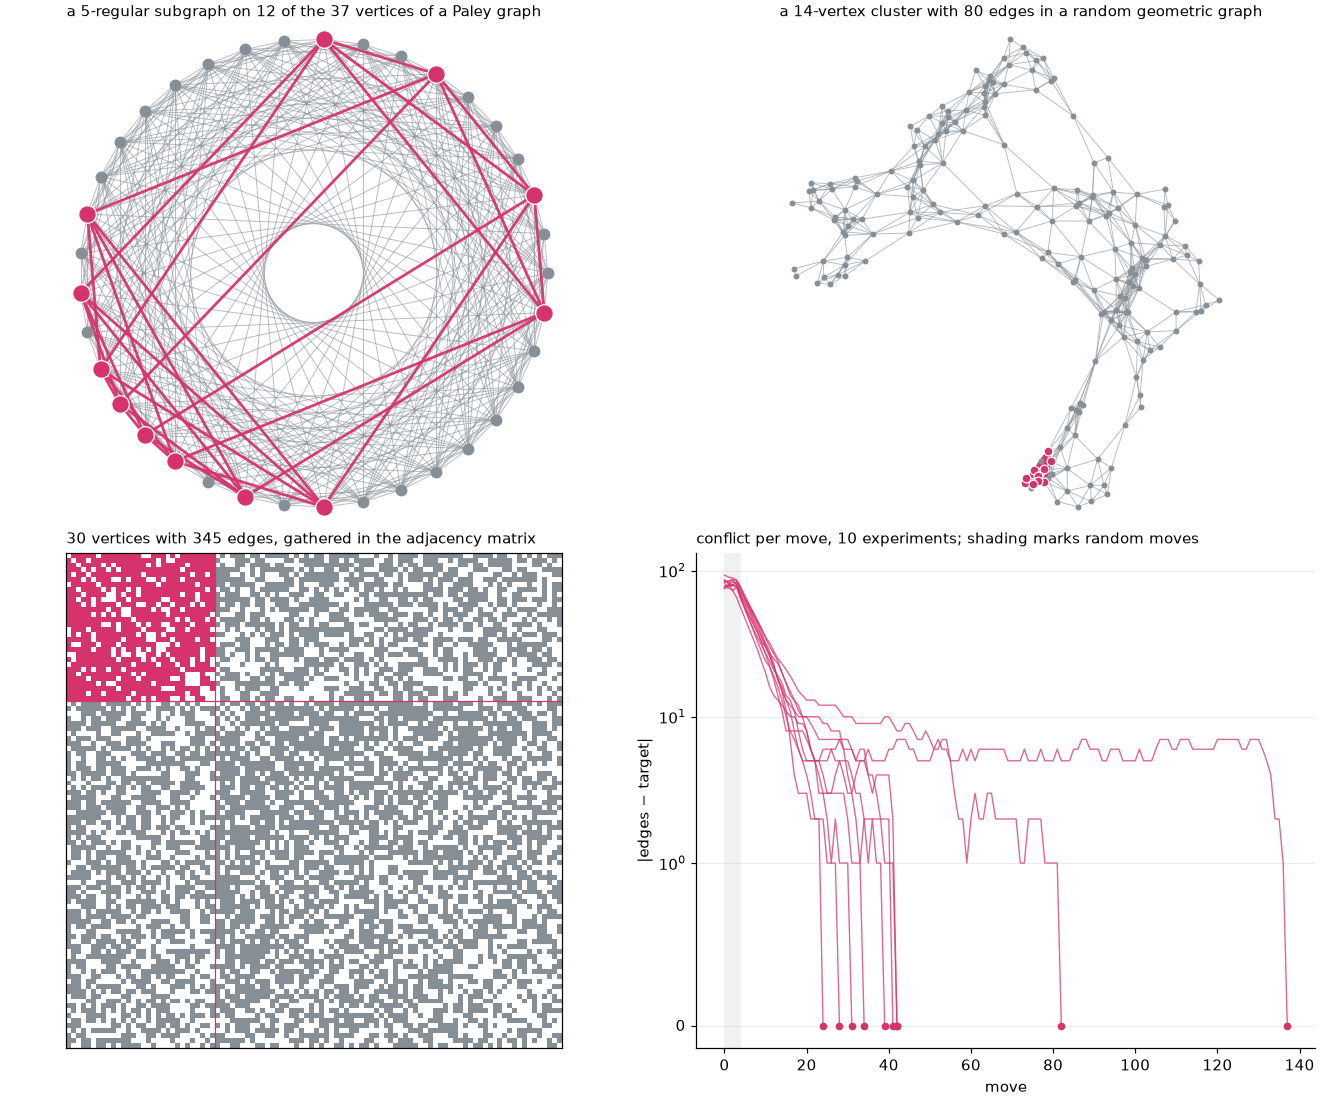
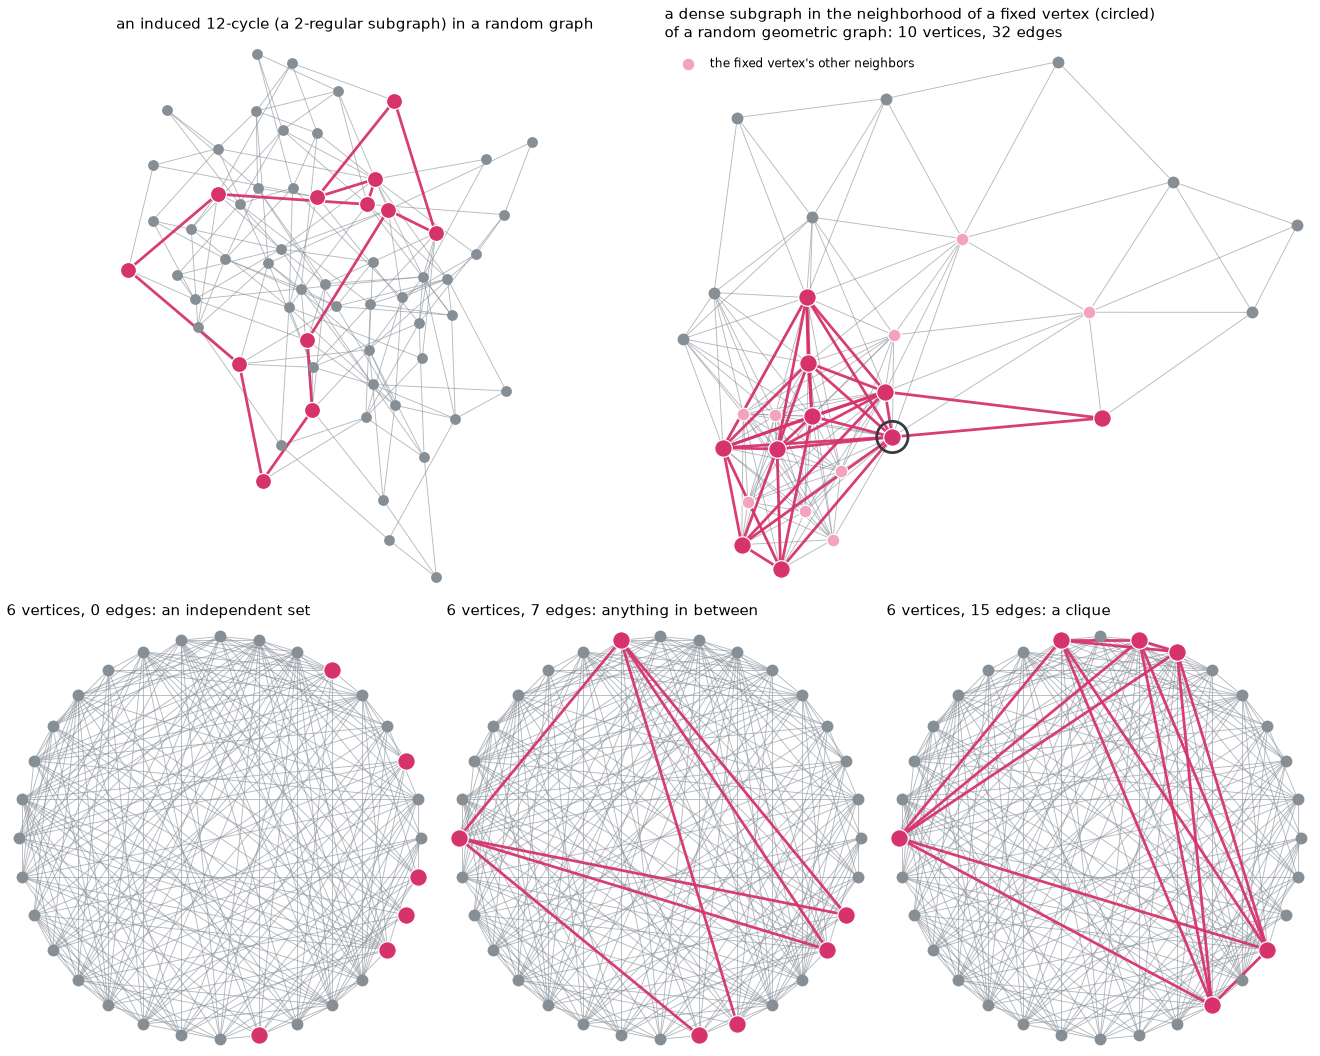
README figure: show capabilities, not search internals
The overview figure now shows, drawn with viz.plot_graph:
- an induced 12-cycle (a 2-regular subgraph) in a random graph, with the
  layout chosen so the cycle barely crosses itself;
- a dense 10-vertex, 32-edge subgraph found within the neighborhood of a
  fixed vertex of a random geometric graph, drawn zoomed in;
- one graph three times: 6 vertices with 0 edges (an independent set),
  7 edges, and 15 (a clique).
This replaces the Paley graph, the adjacency matrix and the search
traces. The figure script still refuses to draw a panel unless its
search found an exact solution.

viz.plot_graph gains `labels`, placed outward from the labeled group so
labels do not pile up.

diff --git a/examples/make_figures.py b/examples/make_figures.py
@@ -13,9 +13,17 @@ from subgraphsearch import viz  # noqa: E402
 OUT = Path(__file__).resolve().parents[1] / "assets"
 
 
-def paley(q: int) -> ss.Graph:
-    squares = {x * x % q for x in range(1, q)}
-    return ss.Graph(q, [(i, j) for i in range(q) for j in range(i + 1, q) if (j - i) % q in squares])
+def crossings(pos, edges) -> int:
+    """How many pairs of the given edges cross in a drawing: fewer makes a subgraph easier to follow."""
+    def ccw(a, b, c):
+        return (c[1] - a[1]) * (b[0] - a[0]) > (b[1] - a[1]) * (c[0] - a[0])
+    count = 0
+    for i, (u, v) in enumerate(edges):
+        for x, y in edges[i + 1:]:
+            if len({u, v, x, y}) == 4:
+                a, b, c, d = pos[u], pos[v], pos[x], pos[y]
+                count += ccw(a, c, d) != ccw(b, c, d) and ccw(a, b, c) != ccw(a, b, d)
+    return count
 
 
 def found(result: ss.SearchResult) -> tuple[int, ...]:
@@ -27,29 +35,45 @@ def found(result: ss.SearchResult) -> tuple[int, ...]:
 
 def main() -> None:
     OUT.mkdir(exist_ok=True)
-    fig, axs = plt.subplots(2, 2, figsize=(12, 10), layout="constrained")
+    fig = plt.figure(figsize=(12, 9.6), layout="constrained")
+    grid = fig.add_gridspec(2, 6, height_ratios=[1.3, 1])
 
-    # a regular subgraph of a strongly regular graph
-    p = paley(37)
-    r = ss.search(p, 12, degree=5, two_phase=True, seed=3, experiments=200)
-    viz.plot_graph(p, found(r), axs[0, 0], layout="circle",
-                   title="a 5-regular subgraph on 12 of the 37 vertices of a Paley graph")
+    # a regular subgraph: every chosen vertex has exactly two chosen neighbors, here forming one cycle
+    rnd = ss.generate("exponential", 60, 0.08, seed=3)
+    r = ss.search(rnd, 12, degree=2, two_phase=True, seed=1, experiments=400)
+    found(r)
+    cycle = next(vs for vs in r.solutions() if rnd.induced(list(vs)).components()[1] == 1)
+    cycle_edges = [(u, v) for i, u in enumerate(cycle) for v in cycle[i + 1:] if rnd.has_edge(u, v)]
+    layout = min((rnd.layout("spring", seed=seed) for seed in range(1, 41)), key=lambda pos: crossings(pos, cycle_edges))
+    viz.plot_graph(rnd, cycle, fig.add_subplot(grid[0, :3]), layout=layout,
+                   title="an induced 12-cycle (a 2-regular subgraph) in a random graph")
 
-    # a dense cluster in a random geometric graph
+    # a search confined to a fixed vertex's neighborhood, in a random geometric graph
     geo = ss.generate("geometric", 200, 0.05, seed=6)
-    rg = ss.search(geo, 14, 80, seed=2, experiments=200)
-    viz.plot_graph(geo, found(rg), axs[0, 1], seed=2,
-                   title="a 14-vertex cluster with 80 edges in a random geometric graph")
+    v = int(geo.degrees().argmax())
+    nbrs = geo.common_neighborhood([v])
+    rn = ss.search(geo.induced(nbrs), 9, 32 - 9, seed=1)  # v is adjacent to all 9 others: 9 + 23 = 32 edges
+    sub = {v} | {nbrs[i] for i in found(rn)}
+    # draw the part of the graph within two steps of v, zoomed in
+    ball = sorted({v} | set(nbrs) | {w for u in nbrs for w in geo.neighbors(u).tolist()})
+    index = {u: i for i, u in enumerate(ball)}
+    local = geo.induced(ball)
+    pos = local.layout("spring", seed=1)
+    ax = fig.add_subplot(grid[0, 3:])
+    viz.plot_graph(local, [index[u] for u in sub], ax, layout=pos,
+                   title="a dense subgraph in the neighborhood of a fixed vertex (circled)\nof a random geometric graph: 10 vertices, 32 edges")
+    rest = [index[u] for u in nbrs if u not in sub]
+    ax.scatter(pos[rest, 0], pos[rest, 1], s=70, color="#f4a3bf", zorder=4, edgecolors="white", linewidths=0.8,
+               label="the fixed vertex's other neighbors")
+    ax.scatter(*pos[index[v]], s=420, facecolors="none", edgecolors="#343a40", linewidths=1.8, zorder=5)
+    ax.legend(loc="upper left", frameon=False, fontsize=8)
 
-    # the found subgraph as a block of the adjacency matrix
-    g = ss.generate("exponential", 100, 0.6, seed=1)
-    rd = ss.search(g, 30, 345, seed=1, trace=True, experiments=60)
-    viz.plot_adjacency(g, found(rd), axs[1, 0])
-    axs[1, 0].set_title("30 vertices with 345 edges, gathered in the adjacency matrix", fontsize=10, loc="left")
-
-    # how the search got there
-    viz.plot_traces(rd, axs[1, 1], max_experiments=10)
-    axs[1, 1].set_title("conflict per move, 10 experiments; shading marks random moves", fontsize=10, loc="left")
+    # one graph, 6 vertices at a time: an independent set, something in between, a clique
+    g = ss.generate("exponential", 32, 0.45, seed=2)
+    for col, (m, label) in enumerate([(0, "an independent set"), (7, "anything in between"), (15, "a clique")]):
+        rm = ss.search(g, 6, m, seed=1, experiments=200)
+        viz.plot_graph(g, found(rm), fig.add_subplot(grid[1, 2 * col:2 * col + 2]), layout="circle",
+                       title=f"6 vertices, {m} edges: {label}")
 
     fig.savefig(OUT / "overview.png", dpi=110, facecolor="white")
     print(OUT / "overview.png")

diff --git a/python/subgraphsearch/viz/drawing.py b/python/subgraphsearch/viz/drawing.py
@@ -2,7 +2,7 @@
 
 from __future__ import annotations
 
-from collections.abc import Iterable
+from collections.abc import Iterable, Mapping
 
 import numpy as np
 
@@ -18,13 +18,15 @@ def plot_graph(
     layout: str | np.ndarray = "spring",
     seed: int = 1,
     node_size: float | None = None,
+    labels: Mapping[int, str] | None = None,
     title: str | None = None,
 ):
     """Draws ``graph`` with the vertices in ``highlight`` and the edges among them in color.
 
     ``layout`` is a method name for :meth:`Graph.layout` (``"spring"``, ``"spectral"`` or
     ``"circle"``) or an ``(n, 2)`` array of positions. Edges outside the highlighted subgraph are
-    drawn faintly, more so for larger graphs, so the subgraph stands out.
+    drawn faintly, more so for larger graphs, so the subgraph stands out. ``labels`` maps vertices
+    to text drawn beside them, for example names for the highlighted vertices.
     """
     from matplotlib.collections import LineCollection
 
@@ -47,6 +49,20 @@ def plot_graph(
     size = node_size if node_size is not None else max(6.0, min(60.0, 3000.0 / max(g.n, 1)))
     ax.scatter(pos[~marked, 0], pos[~marked, 1], s=size, color=NEUTRAL, zorder=3, linewidths=0)
     ax.scatter(pos[marked, 0], pos[marked, 1], s=size * 2.2, color=ACCENT, zorder=4, edgecolors="white", linewidths=0.8)
+    if labels:
+        # place each label away from the center of the labeled vertices, so labels around a
+        # group fan outward instead of piling up
+        labeled = np.array([int(v) for v in labels])
+        center = pos[labeled].mean(axis=0)
+        for v, text in labels.items():
+            x, y = pos[int(v)]
+            dx, dy = x - center[0], y - center[1]
+            norm = float(np.hypot(dx, dy)) or 1.0
+            ux, uy = dx / norm, dy / norm
+            ax.annotate(str(text), (x, y), xytext=(9 * ux, 9 * uy), textcoords="offset points", fontsize=8,
+                        ha="left" if ux > 0.3 else "right" if ux < -0.3 else "center",
+                        va="bottom" if uy > 0.3 else "top" if uy < -0.3 else "center", zorder=5, color="#343a40",
+                        bbox={"boxstyle": "round,pad=0.15", "fc": "white", "ec": "none", "alpha": 0.75})
     ax.set_aspect("equal")
     ax.margins(0.03)
     ax.set_axis_off()

diff --git a/python/tests/test_subgraphsearch.py b/python/tests/test_subgraphsearch.py
@@ -196,6 +196,8 @@ def test_plots_render(g100):
     for layout in ("spring", "circle", "spectral"):
         viz.plot_graph(g100, best, layout=layout, title="x")
     viz.plot_graph(ss.WeightedGraph.from_graph(cycle(10)), [0, 1, 2])
+    ax = viz.plot_graph(cycle(6), [0, 1], labels={0: "a", 1: "b"})
+    assert [t.get_text() for t in ax.texts] == ["a", "b"]
     with pytest.raises(ValueError, match="layout must have shape"):
         viz.plot_graph(g100, layout=np.zeros((3, 2)))
     import matplotlib.pyplot as plt

diff --git a/README.md b/README.md
@@ -8,7 +8,7 @@ subgraphs of a given total weight in weighted graphs. A fast randomized local se
 Rust, with a Python API, a command-line tool, random graph generators, standard graph formats and
 visualization.
 
-![Four views of searches: a 5-regular subgraph highlighted in a Paley graph drawn on a circle; a dense 14-vertex cluster in a random geometric graph; a 30-vertex, 345-edge subgraph gathered into the corner of an adjacency matrix; and the conflict falling move by move in ten experiments](https://raw.githubusercontent.com/vglazer/subgraphsearch/main/assets/overview.png)
+![Searches drawn with viz.plot_graph: an induced 12-cycle (a 2-regular subgraph) in a random graph; a dense 10-vertex, 32-edge subgraph found within the neighborhood of a fixed vertex of a random geometric graph; and one graph three times, with 6 vertices spanning 0 edges (an independent set), 7 edges, and all 15 (a clique)](https://raw.githubusercontent.com/vglazer/subgraphsearch/main/assets/overview.png)
 
 ## Install
 
